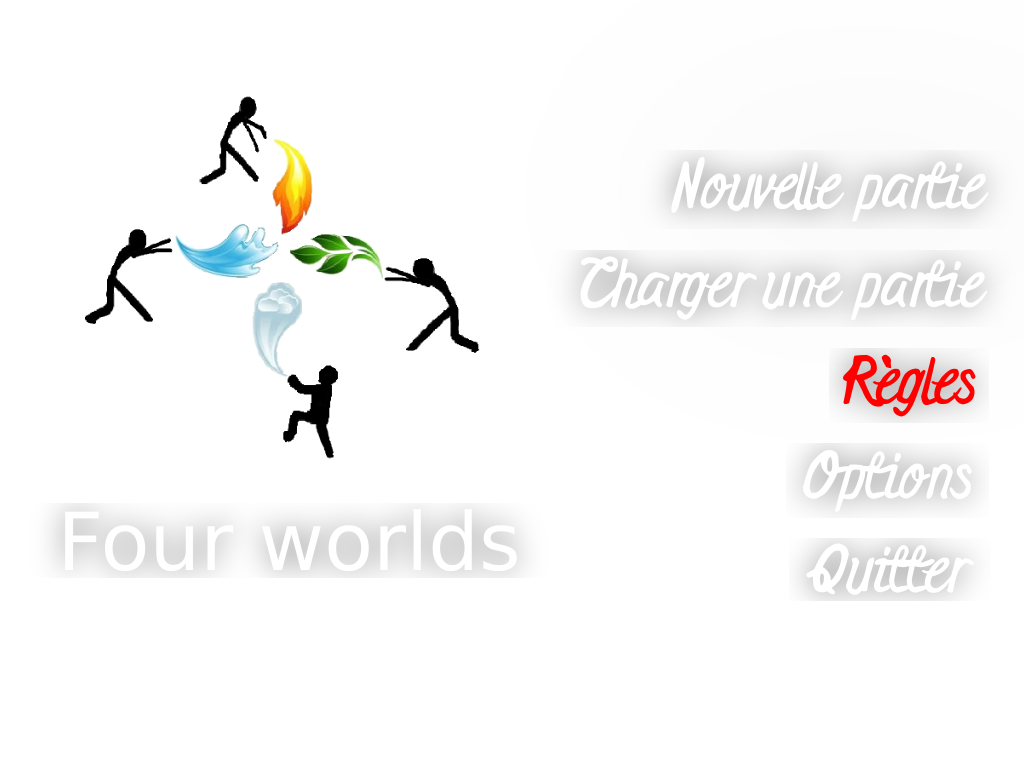
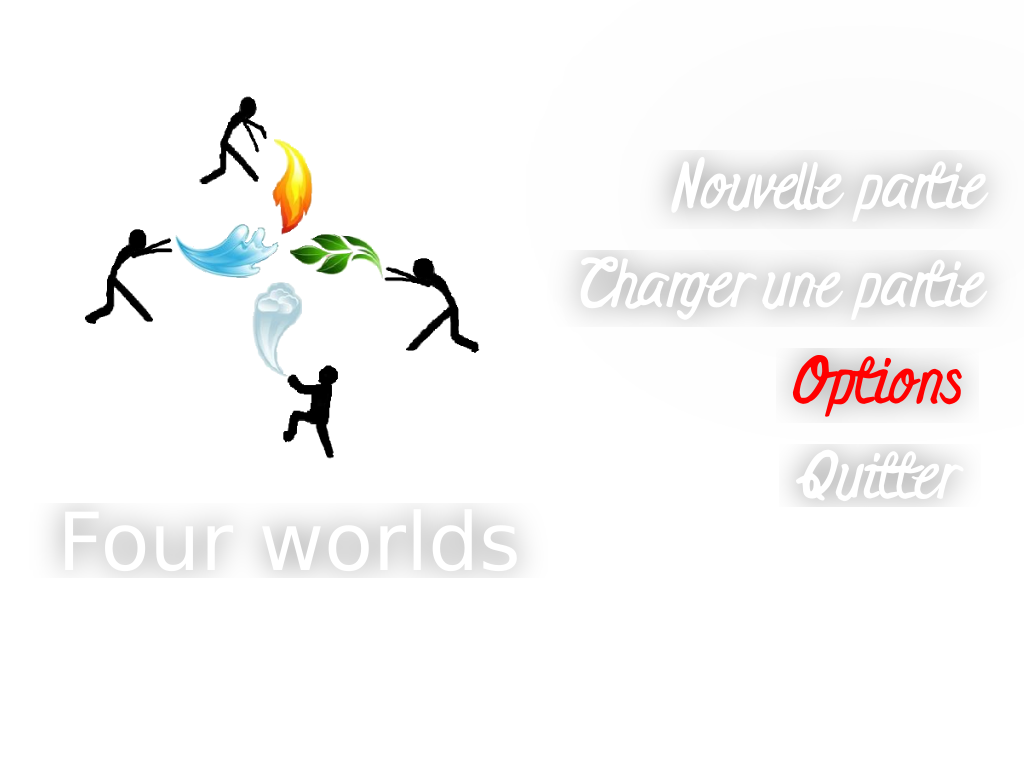
Suppression du menu Règles

Changed region(s): [[0.75, 0.4375, 0.9688, 0.5625], [0.7812, 0.6875, 0.9375, 0.7812], [0.7812, 0.5938, 0.9375, 0.6562]]

diff --git a/menu.c b/menu.c
@@ -137,9 +137,6 @@ void Menu_showForeground( Menu* menu ) {
 		} else if( px == colors[ 4 ] ) {
 			draw_trans_sprite( menu->page, menu->fore1.bmps[ 4 ], 0, 0 );
 			menu->choice = 4;
-		} else if( px == colors[ 5 ] ) {
-			draw_trans_sprite( menu->page, menu->fore1.bmps[ 5 ], 0, 0 );
-			menu->choice = 5;
 		} else {
 			draw_trans_sprite( menu->page, menu->fore1.bmps[ 0 ], 0, 0 );
 			menu->choice = 0;
@@ -203,7 +200,7 @@ char Menu_load( Menu* menu ) {
 	menu->back = load_jpg( "images/menu/fond.jpg", NULL );
 	menu->col1 = load_png( "images/menu/collision1.png", NULL );
 	menu->col2 = load_png( "images/menu/collision2.png", NULL );
-	menu->fore1 = Level_loadFrames( "images/menu/fond1sel", 6 );
+	menu->fore1 = Level_loadFrames( "images/menu/fond1sel", 5 );
 	menu->fore2 = Level_loadFrames( "images/menu/fond2sel", 5 );
 
 	if( !menu->back || !menu->fore1.bmps || !menu->fore2.bmps || !menu->col1 || !menu->col2 ) {
@@ -243,10 +240,6 @@ void Menu_options( Menu* menu, GeneralConfig* config ) {
 	enable_hardware_cursor();
 	select_mouse_cursor( 2 );
 	show_mouse( screen );
-}
-
-void Menu_rules( Menu* menu ) {
-
 }
 
 void Menu_launch( FMod* fmod, GeneralConfig* config ) {
@@ -311,8 +304,8 @@ void Menu_launch( FMod* fmod, GeneralConfig* config ) {
 
 				case 3:
 					if( menu.submenu == MENU_MAIN ) {
-						// Règles
-						Menu_rules( &menu );
+						// Options
+						Menu_options( &menu, config );
 					} else if( menu.submenu == MENU_NEW ) {
 						// Créer une partie sur la sauvegarde 3
 						Menu_newGame( fmod, 3 );
@@ -325,20 +318,12 @@ void Menu_launch( FMod* fmod, GeneralConfig* config ) {
 					break;
 
 				case 4:
-					if( menu.submenu == MENU_MAIN ) {
-						// Options
-						Menu_options( &menu, config );
+					if( menu.submenu == MENU_MAIN ) {// Quitter
+						quit = 1;
 					} else {
 						// Retour au menu principal
 						menu.submenu = MENU_MAIN;
 						Menu_transition( &menu, MENU_MAIN );
-					}
-					break;
-
-				case 5:
-					if( menu.submenu == MENU_MAIN ) {
-						// Quitter
-						quit = 1;
 					}
 					break;
 			}
